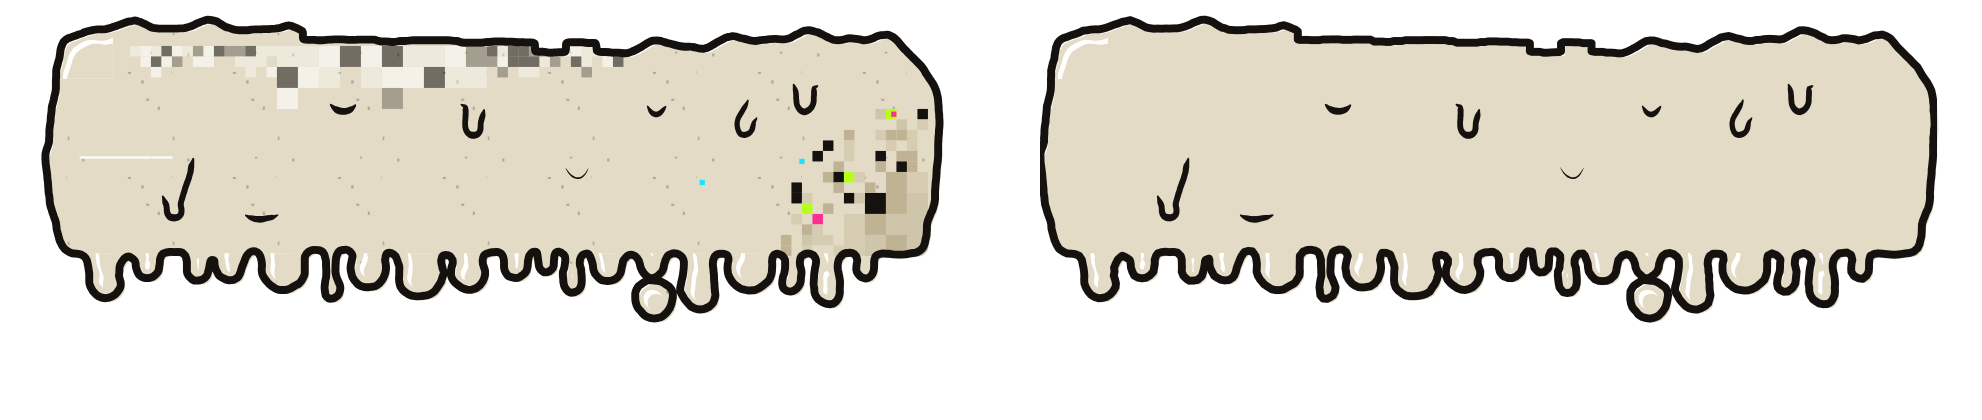
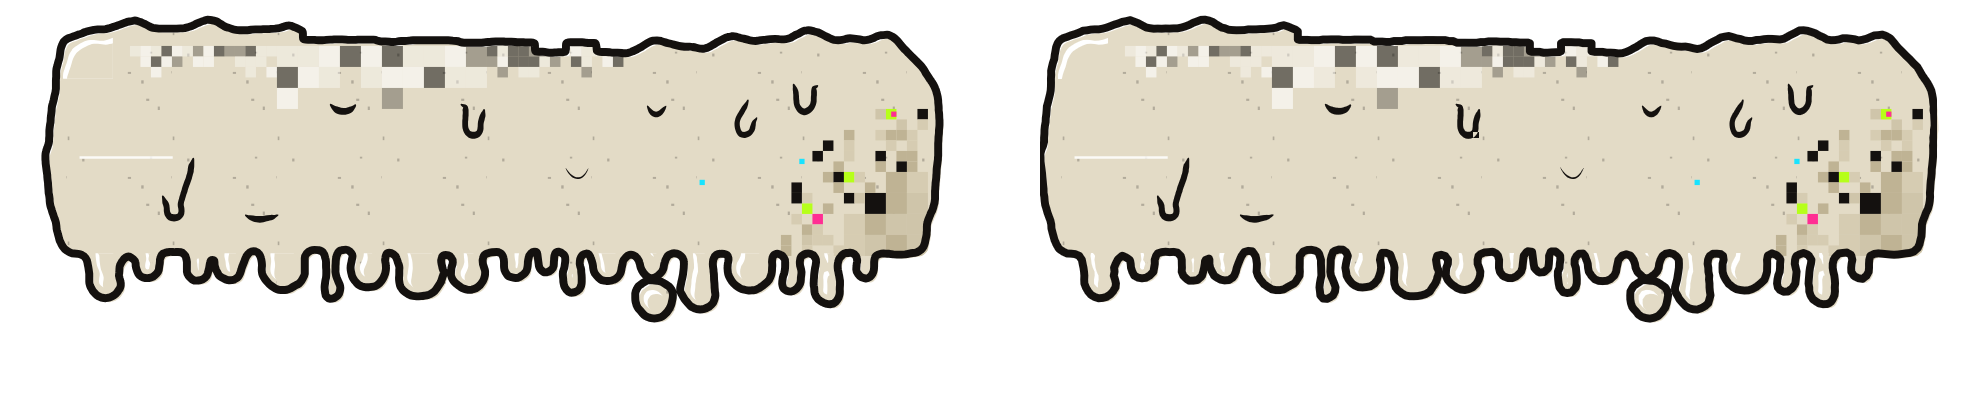
docs(backlog): record the shader with every decoration on the phone
On a hot Pixel 6a the body shader with every decoration runs ten cards at 60.8 frames a second, the paths at 26.9.

Refs: B-131

Changed region(s): [[0.554, 0.0929, 0.831, 0.2786], [0.8925, 0.2476, 0.9849, 0.619], [0.554, 0.3714, 0.5848, 0.4024]]

diff --git a/docs/backlog/B-131-decorations-in-the-shader.md b/docs/backlog/B-131-decorations-in-the-shader.md
@@ -1,7 +1,7 @@
 ---
 id: B-131
 title: "A body's decorations drawn by its shader"
-status: wip
+status: done
 priority: P2
 size: M
 stage: stage-6-later
@@ -23,3 +23,23 @@ on a hot phone without decorations. The owner keeps every decoration.
   0.8 % of pixels more than 32 levels apart in every case (B-130's 0.6 % for the silhouette and room for the flow lines'
   edge); on the phone, every decoration on, in one rotation with paths (the loop's build): **it holds** if it runs at 55
   frames a second or more pooled, hot.
+
+## Results, 2026-11-18
+
+**The picture.** `BodyShaderParityTest`, every decoration drawn by both: 0.27–0.59 % of pixels more than 32 levels apart in
+the twelve cases, under the line of 0.8 % ([shares](../../logs/b-131/2026-11-18-shares.txt),
+[«Копия»](../../logs/b-131/card-kopiya-2.625.png), [«Эфир»](../../logs/b-131/card-efir-2.625.png)): the decorations add next to
+nothing to B-130's silhouette. Mutants drawing no flow lines (0.74–1.5 %), no still layers (1.4–4.5 %) and never turning
+the flow lines' winding (0.9–1.6 %) each fail it.
+
+**The phone, hot.** The first cut walked every segment of a flow line per pixel: 18.5 frames a second against the paths'
+22.8 ([run](../../logs/b-131/2026-11-18-pixel6a.log)); without the flow lines the shader ran at 60.9, without the still layers
+at 18.9 ([parts](../../logs/b-131/2026-11-18-pixel6a-parts.log)), so the flow lines were the cost. Binned (2 dp), it fell to
+6.9 ([run](../../logs/b-131/2026-11-18-pixel6a-binned.log)): the bins' windings were counted segment by segment for every
+bin, on the CPU, every tick. Found by rows, 0.05 ms a body on the desktop, and
+**[the run](../../logs/b-131/2026-11-18-pixel6a-binned2.log), 37.9–39.0 °C: the paths (the loop's build) 26.9 frames a second,
+the shader with every decoration 60.8, at 60.6–61.2 in every round**, work p50 8.3 ms against 29.5. **It holds.**
+
+**Open.** B-130's silhouette test stays over its line of 0.5 % in five cases (0.50–0.59); the gate is red on it until the
+owner decides (B-126). The shader is still off by default (`BODY_ON_GPU`); a pressed or hot body, a pour, an error and
+focus keep their paths; iOS is not run.
